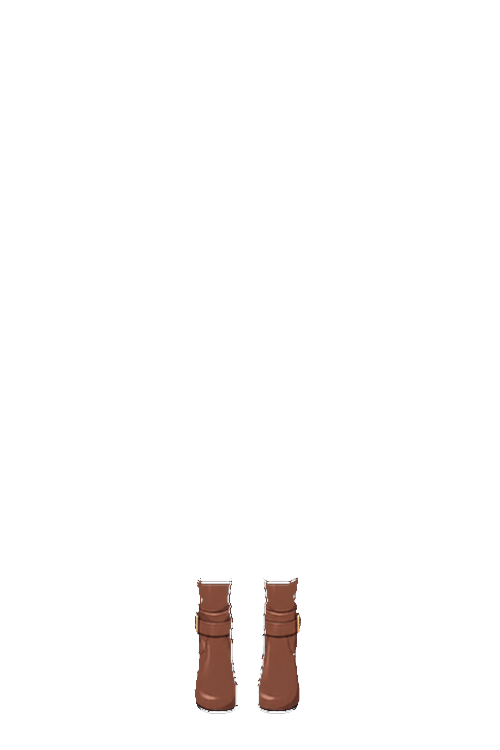
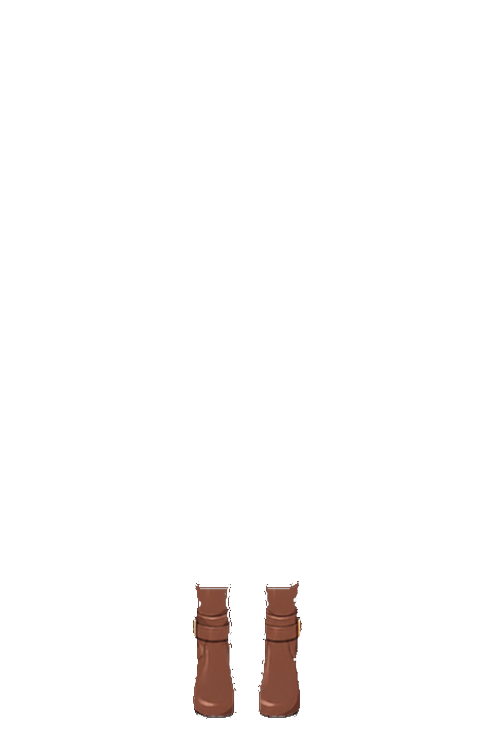
fix: ブーツ3%拡大+3px上
Claude-Session: https://claude.ai/code/session_01XMvAfF4jxf9CbKyjmGTEy4

Changed region(s): [[0.51, 0.7667, 0.6, 0.9813], [0.39, 0.7667, 0.48, 0.9813]]

diff --git a/osewa.html b/osewa.html
@@ -818,7 +818,7 @@ var SHOES = [
   { name: 'はだし', img: null, color: '#fddcb5', emoji: '🦶' },
   { name: 'ピンクくつ', img: 'doll_shoes_1.png?v=17', color: '#f9a8d4', emoji: '👟' },
   { name: 'スニーカー', img: 'doll_shoes_2.png?v=13', color: '#93c5fd', emoji: '👟' },
-  { name: 'ブーツ', img: 'doll_shoes_3.png?v=18', color: '#8B5E3C', emoji: '👢' },
+  { name: 'ブーツ', img: 'doll_shoes_3.png?v=19', color: '#8B5E3C', emoji: '👢' },
 ];
 
 var FOODS = [